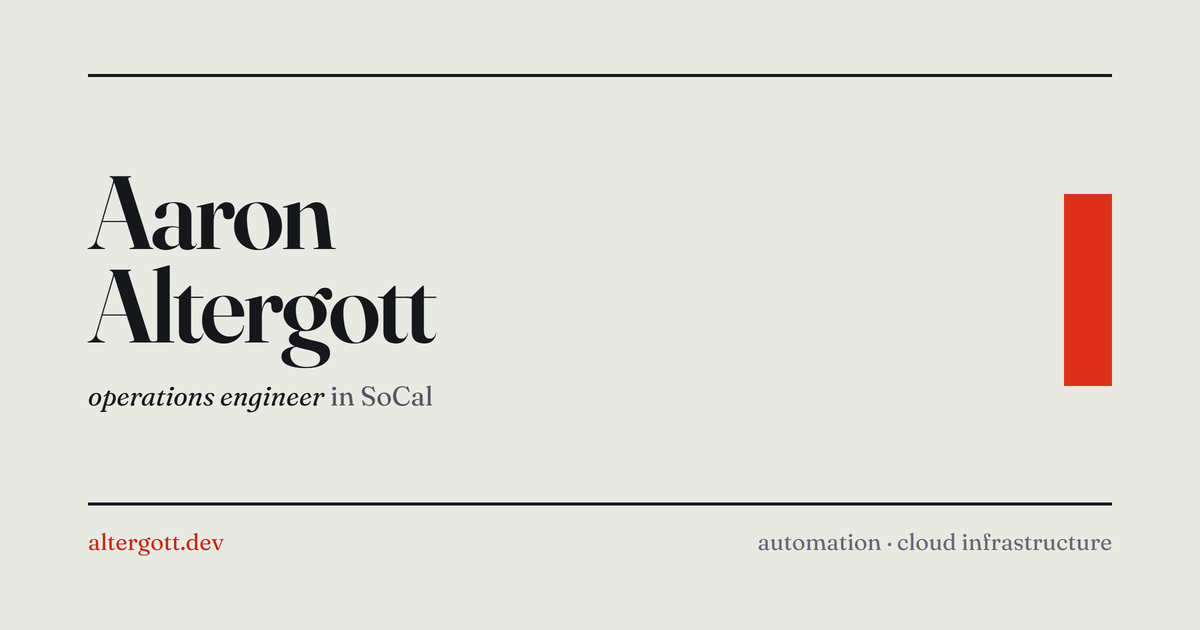
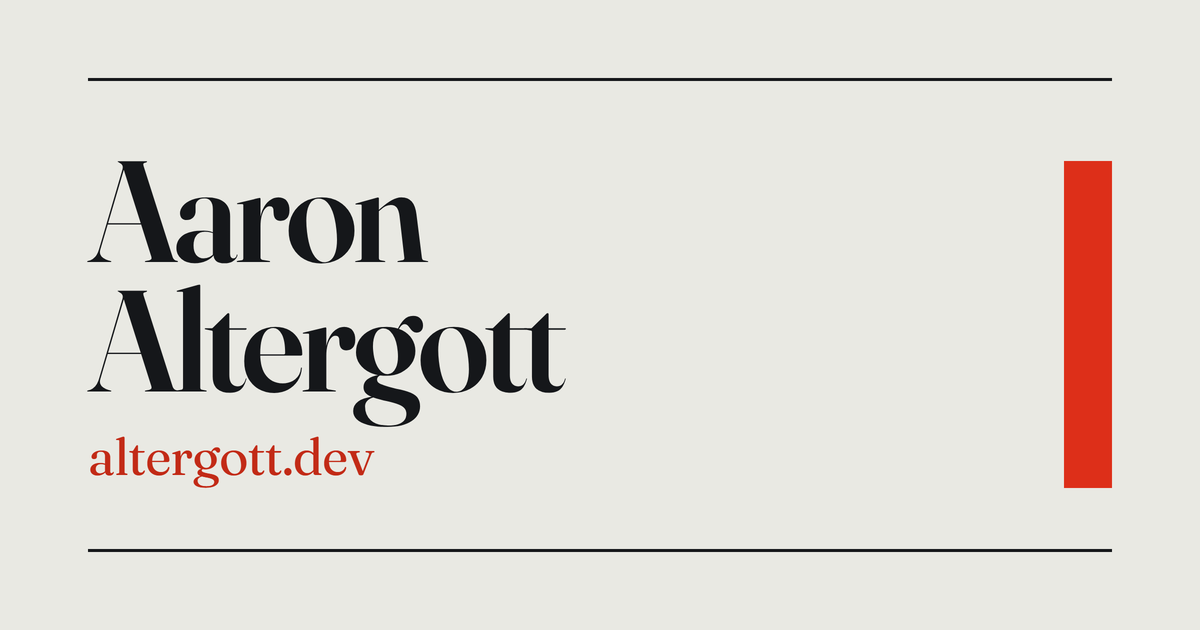
Rebuild the social card around the name and the mark
Two things and the bar now: "Aaron Altergott" at 144px over altergott.dev at
52px, with the subline and the footer note gone. Both rules sit 78px off their
edge, so the card is bracketed evenly.

The bar runs the height of the lockup — the cap of "Aaron" down to the last of
"altergott.dev" — which no box on the page describes, since a line box carries
leading at both ends and canvas metrics cannot apply font-variation-settings.
render-og.py measures the ink off the 2x raster and lays the bar in against it,
so the bar follows the type if the type ever changes.

Claude-Session: https://claude.ai/code/session_01WhYTe1RLfHiWA82WA9jb1p

diff --git a/tools/og-card.html b/tools/og-card.html
@@ -9,16 +9,18 @@
 :root {
   --paper:   #e9e9e3;
   --ink:     #15171a;
-  --ink-2:   #52565c;
-  --ink-3:   #656870;
-  --ink-4:   #9a9da3;
   --red:     #dd2f19;
   --red-ink: #c22a16;
-  --rule-hair: rgba(21,23,26,.11);
+
+  --margin-x: 88px;
+  /* the two rules sit this far from the top and bottom edges — the same
+     number on both, so the card is bracketed evenly */
+  --margin-y: 78px;
 }
 * { box-sizing: border-box; margin: 0; padding: 0; }
 html, body { width: 1200px; height: 630px; }
 body {
+  position: relative;
   background: var(--paper);
   color: var(--ink);
   font-family: 'Fraunces', 'Iowan Old Style', Georgia, serif;
@@ -26,69 +28,48 @@ body {
   font-variation-settings: 'SOFT' 0, 'WONK' 1;
   -webkit-font-smoothing: antialiased;
   display: flex; flex-direction: column;
-  padding: 74px 88px;
+  padding: var(--margin-y) var(--margin-x);
 }
 
 /* the two heavy rules that bracket the register stack on the page */
-.rule-top    { border-top: 3px solid var(--ink); }
-.rule-bottom { border-top: 3px solid var(--ink); }
+.rule { border-top: 3px solid var(--ink); flex: 0 0 auto; }
 
-.body {
-  flex: 1;
-  display: flex;
-  align-items: center;
-  justify-content: space-between;
-  gap: 72px;
-  padding: 54px 0;
-}
+.body { flex: 1; display: flex; align-items: center; }
 
 h1 {
-  font-size: 104px;
+  font-size: 144px;
   font-weight: 600;
   letter-spacing: -.032em;
   line-height: .9;
 }
-.sub {
-  margin-top: 26px;
-  font-size: 27px;
-  line-height: 1.35;
-  color: var(--ink-2);
-}
-.sub em { font-style: italic; color: var(--ink); }
-
-/* the favicon's mark, at the same proportions: a red bar 6 units wide and
-   24 tall, sitting just right of centre on the paper. */
-.mark {
-  width: 48px; height: 192px;
-  background: var(--red);
-  flex: 0 0 auto;
+.dom {
+  margin-top: 24px;
+  font-size: 52px;
+  font-weight: 400;
+  letter-spacing: -.014em;
+  line-height: 1.1;
+  color: var(--red-ink);
 }
 
-.foot {
-  display: flex; align-items: baseline; justify-content: space-between;
-  padding-top: 22px;
-  font-size: 23px;
-  color: var(--ink-3);
-}
-.foot .dom { color: var(--red-ink); }
+/* the favicon's mark is not set here. it has to start on the cap of "Aaron"
+   and stop on the last of "altergott.dev", and only the rendered page knows
+   where those are — canvas metrics cannot apply font-variation-settings, so
+   they measure a different cut of Fraunces than this page draws. render-og.py
+   reads the ink off the raster and lays the bar in at --margin-x from the
+   right edge, 48px wide. */
 </style>
 </head>
 <body>
-  <div class="rule-top"></div>
+  <div class="rule"></div>
 
   <div class="body">
-    <div>
+    <div class="lockup" id="lockup">
       <h1>Aaron<br />Altergott</h1>
-      <p class="sub"><em>operations engineer</em> in SoCal</p>
+      <p class="dom">altergott.dev</p>
     </div>
-
-    <div class="mark" aria-hidden="true"></div>
   </div>
 
-  <div class="rule-bottom"></div>
-  <div class="foot">
-    <span class="dom">altergott.dev</span>
-    <span>automation · cloud infrastructure</span>
-  </div>
+  <div class="rule"></div>
+
 </body>
 </html>

diff --git a/tools/render-og.py b/tools/render-og.py
@@ -1,0 +1,102 @@
+"""Render site/og-image.png from tools/og-card.html.
+
+The card is drawn by headless Chrome at 2x and downsampled, so the type keeps
+its edges at 1200x630. The favicon's bar is laid in afterwards, against ink
+measured off the raster: it has to begin on the cap of "Aaron" and end on the
+last stroke of "altergott.dev", and a line box is not that -- it carries
+leading at both ends. Canvas metrics are no better, since canvas cannot apply
+font-variation-settings and so measures a different cut of Fraunces than the
+page draws.
+
+    python tools/render-og.py
+"""
+
+import subprocess
+import sys
+from pathlib import Path
+
+from PIL import Image, ImageDraw
+
+ROOT = Path(__file__).resolve().parent.parent
+CARD = ROOT / "tools" / "og-card.html"
+OUT = ROOT / "site" / "og-image.png"
+
+W, H = 1200, 630
+SCALE = 2
+MARGIN_X = 88   # matches --margin-x in the card
+BAR_W = 48      # the favicon's bar, at the width it reads best here
+
+CHROME_CANDIDATES = [
+    Path(r"C:/Program Files/Google/Chrome/Application/chrome.exe"),
+    Path(r"C:/Program Files (x86)/Google/Chrome/Application/chrome.exe"),
+    Path("/usr/bin/google-chrome"),
+    Path("/Applications/Google Chrome.app/Contents/MacOS/Google Chrome"),
+]
+
+
+def find_chrome() -> Path:
+    for c in CHROME_CANDIDATES:
+        if c.exists():
+            return c
+    sys.exit("chrome not found -- add its path to CHROME_CANDIDATES")
+
+
+def shoot(dest: Path) -> None:
+    subprocess.run(
+        [
+            str(find_chrome()),
+            "--headless=new",
+            "--disable-gpu",
+            "--hide-scrollbars",
+            f"--force-device-scale-factor={SCALE}",
+            f"--window-size={W},{H}",
+            "--virtual-time-budget=8000",  # long enough for Fraunces to arrive
+            f"--screenshot={dest}",
+            CARD.as_uri(),
+        ],
+        check=True,
+        capture_output=True,
+    )
+
+
+def ink_span(im: Image.Image) -> tuple[int, int]:
+    """Top and bottom of the lockup's ink, in 2x pixels.
+
+    Scanned down the left column only, and only between the two rules, so the
+    rules themselves stay out of it.
+    """
+    px = im.load()
+    left, right = 60 * SCALE, 760 * SCALE
+    top, bottom = 100 * SCALE, 540 * SCALE
+
+    def marked(p):
+        r, g, b = p[:3]
+        return r + g + b < 600 or (r > 150 and g < 110 and b < 110)
+
+    rows = [y for y in range(top, bottom)
+            if any(marked(px[x, y]) for x in range(left, right))]
+    if not rows:
+        sys.exit("no ink found -- did the font load?")
+    return rows[0], rows[-1]
+
+
+def main() -> None:
+    raw = ROOT / "tools" / ".og-card@2x.png"
+    shoot(raw)
+
+    im = Image.open(raw).convert("RGB")
+    if im.size != (W * SCALE, H * SCALE):
+        sys.exit(f"expected {W * SCALE}x{H * SCALE}, got {im.size[0]}x{im.size[1]}")
+
+    top, bottom = ink_span(im)
+    x1 = (W - MARGIN_X) * SCALE
+    x0 = x1 - BAR_W * SCALE
+    ImageDraw.Draw(im).rectangle([x0, top, x1 - 1, bottom], fill=(221, 47, 25))
+
+    im.resize((W, H), Image.LANCZOS).save(OUT, optimize=True)
+    raw.unlink()
+    print(f"{OUT.relative_to(ROOT)}  bar {top // SCALE}->{bottom // SCALE} of {H}")
+
+
+if __name__ == "__main__":
+    main()

diff --git a/README.md b/README.md
@@ -31,13 +31,13 @@ GitHub Pages — no install, no build.
 
 ## Social card
 
-`site/og-image.png` (1200×630) is rendered from `tools/og-card.html`:
+`site/og-image.png` (1200x630) is rendered from `tools/og-card.html`:
 
 ```
-chrome --headless=new --disable-gpu --hide-scrollbars \
-  --force-device-scale-factor=2 --window-size=1200,630 \
-  --virtual-time-budget=6000 --screenshot=card@2x.png tools/og-card.html
+python tools/render-og.py
 ```
 
-Then downscale the 2400×1260 capture to 1200×630 (Lanczos) and save over
-`site/og-image.png`.
+Headless Chrome draws the card at 2x and it is downsampled to 1200x630. The
+red bar is laid in afterwards, against ink measured off the raster, so it
+starts on the cap of "Aaron" and ends on the last of "altergott.dev" no matter
+what the type is set at. Pillow is the only dependency.
